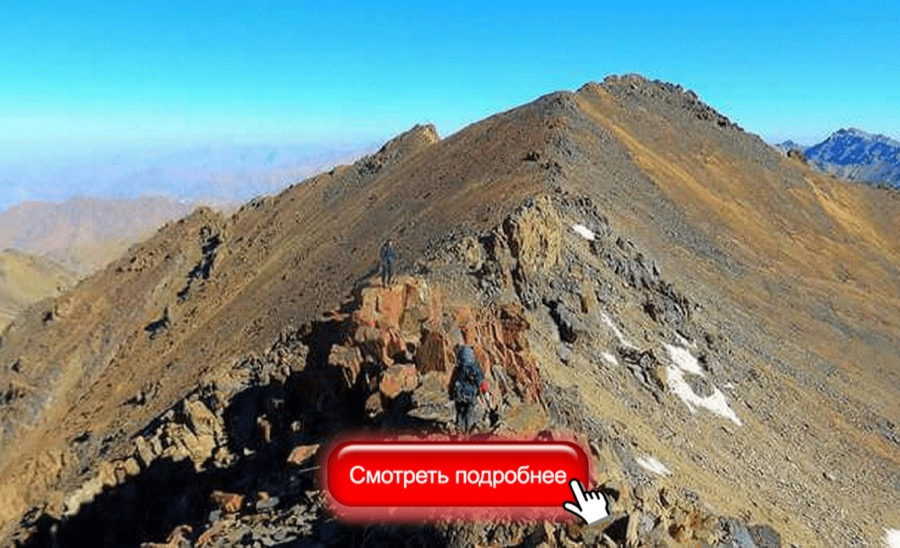
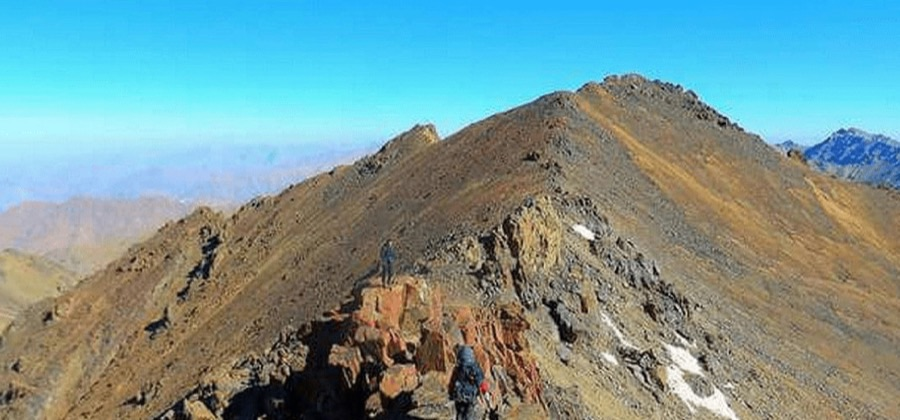
Обложки без кнопки «Смотреть подробнее», кэш v5

diff --git a/sw.js b/sw.js
@@ -1,5 +1,5 @@
 // Офлайн-кэш «Альбома Горца». При изменении файлов увеличьте VERSION.
-const VERSION = "v4";
+const VERSION = "v5";
 const CORE = [
 "./",
 "index.html",
